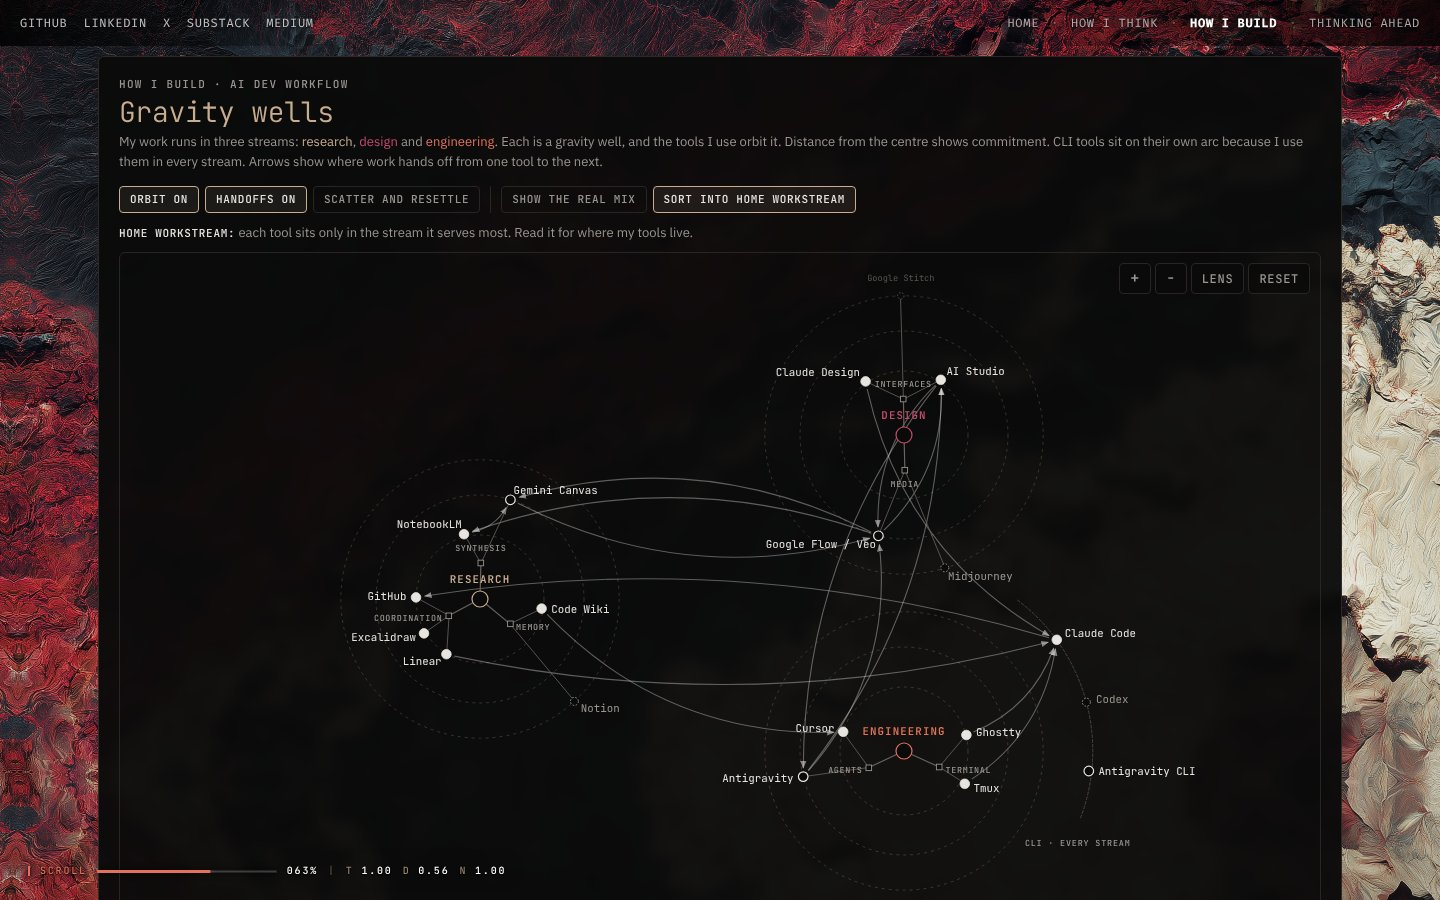
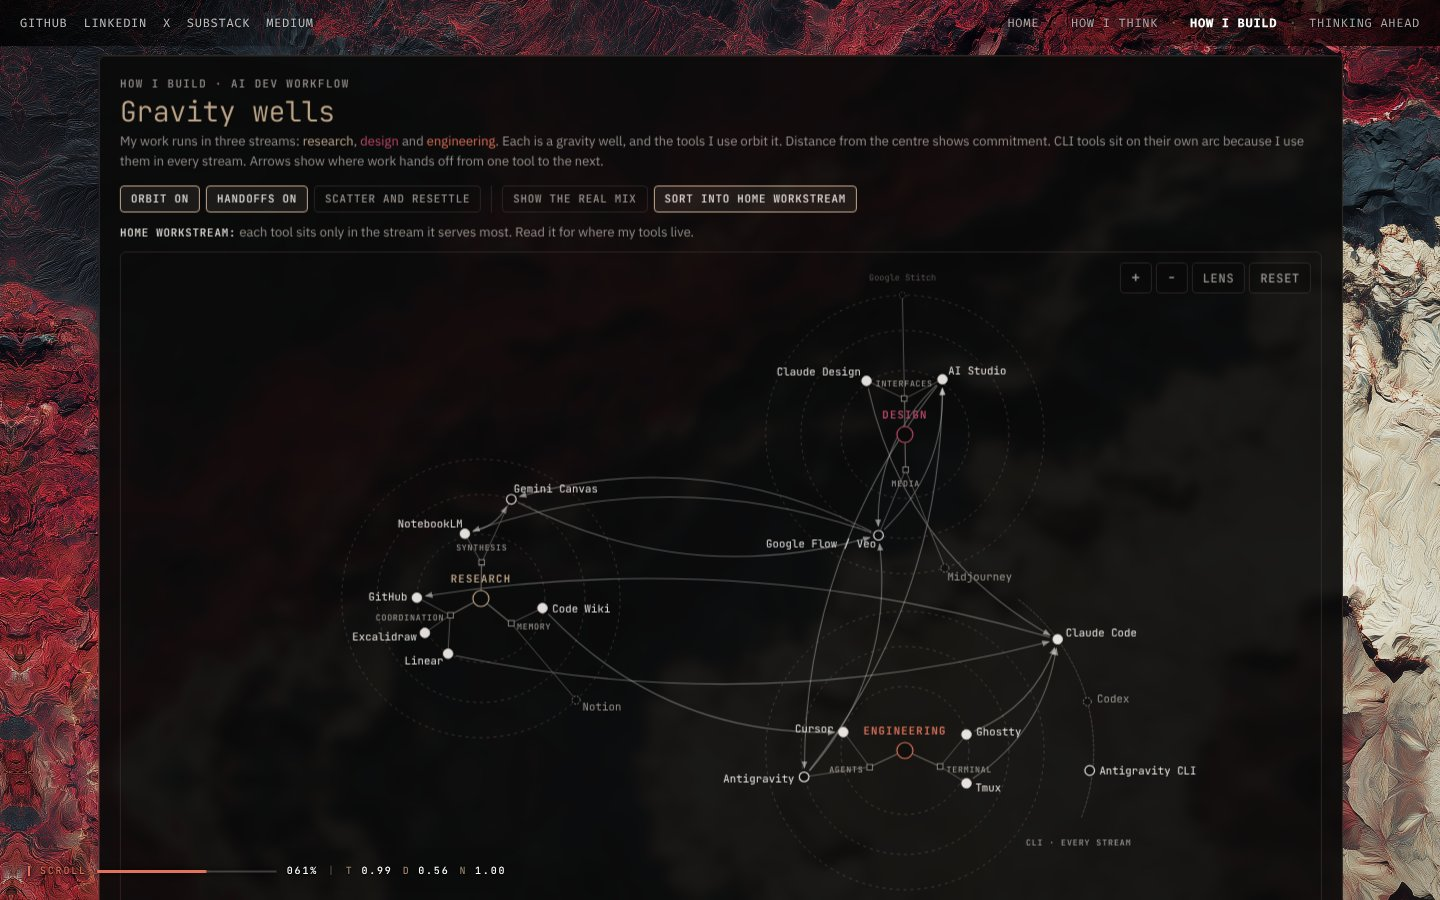
Gravity Wells: trim empty stage space, smaller Dropped row
The zoomed-out home view left empty space under the graph; the visible
stage is now 775 tall (viewH) instead of 890, which cuts that gap by
about half while the layout keeps its 890 height for zooming in. The
Dropped row goes from 13px to 12px.

Claude-Session: https://claude.ai/code/session_01HZ6Ui6Lb3BzD6S9jfSN3FF

diff --git a/app/components/sections/gravity-wells/engine.ts b/app/components/sections/gravity-wells/engine.ts
@@ -109,6 +109,8 @@ export function mountGravityWells(root: HTMLElement): GravityWellsHandle {
   function build(name: "wide" | "narrow"): Built {
     const L = LAYOUTS[name];
     const { W, H, ring: RING } = L;
+    // Height of the visible stage. Can be shorter than H (the layout's height) to trim empty space below the home view.
+    const VH = L.viewH ?? H;
     const WELLS: Record<string, any> = {};
     Object.entries(STREAMS).forEach(([k, s]) => {
       WELLS[k] = { ...s, key: k, x: L.pos[k][0], y: L.pos[k][1] };
@@ -118,7 +120,7 @@ export function mountGravityWells(root: HTMLElement): GravityWellsHandle {
 
     svg.selectAll("*").remove();
     svg
-      .attr("viewBox", `0 0 ${W} ${H}`)
+      .attr("viewBox", `0 0 ${W} ${VH}`)
       .style("max-width", W + "px")
       .classed("handoffs-off", !ui.handoffs)
       .classed("picking", false);
@@ -127,10 +129,10 @@ export function mountGravityWells(root: HTMLElement): GravityWellsHandle {
     function sizeText() {
       // A whole-pixel height keeps everything below the stage on the pixel grid.
       const cw = svgEl.clientWidth;
-      if (cw) svgEl.style.height = Math.round((cw * H) / W) + "px";
+      if (cw) svgEl.style.height = Math.round((cw * VH) / W) + "px";
       const scale = Math.min(
         L.maxScale,
-        Math.max(1, W / (svgEl.clientWidth || W), H / (svgEl.clientHeight || H)),
+        Math.max(1, W / (svgEl.clientWidth || W), VH / (svgEl.clientHeight || VH)),
       );
       Object.entries(TEXT).forEach(([k, px]) => {
         fs[k] = px * scale * (L.textScale || 1);
@@ -450,7 +452,7 @@ export function mountGravityWells(root: HTMLElement): GravityWellsHandle {
           y1: (z.bottom - s.top) * k + 4,
         });
       }
-      LENS.r = 70 * Math.max(1, W / (svgEl.clientWidth || W), H / (svgEl.clientHeight || H));
+      LENS.r = 70 * Math.max(1, W / (svgEl.clientWidth || W), VH / (svgEl.clientHeight || VH));
     }
     measure();
 
@@ -608,7 +610,7 @@ export function mountGravityWells(root: HTMLElement): GravityWellsHandle {
     const ease = (sel: any) => (reduceMotion ? sel : sel.transition().duration(420).ease(easeCubicOut));
     function zoomTo(d: any) {
       const k = Math.min(4, zt().k * 1.25);
-      ease(svg).call(zoom.transform, zoomIdentity.translate(W / 2, H / 2).scale(k).translate(-d.x, -d.y));
+      ease(svg).call(zoom.transform, zoomIdentity.translate(W / 2, VH / 2).scale(k).translate(-d.x, -d.y));
     }
     const zoomBy = (f: number) => ease(svg).call(zoom.scaleBy, f);
     const zoomReset = () => ease(svg).call(zoom.transform, home);

diff --git a/app/components/sections/gravity-wells/data.ts b/app/components/sections/gravity-wells/data.ts
@@ -26,6 +26,8 @@ export const TEXT = { tool: 13.5, hub: 10.5, well: 13.5 };
 export type Layout = {
   W: number;
   H: number;
+  /** Visible stage height, if shorter than H. */
+  viewH?: number;
   maxScale: number;
   pull: number;
   textScale?: number;
@@ -51,7 +53,8 @@ export type Layout = {
 export const LAYOUTS: Record<"wide" | "narrow", Layout> = {
   wide: {
     // Prototype A's triangle, with room above design and below engineering. The CLI arc sits where A's escape arc was.
-    W: 1200, H: 890, maxScale: 1.3, pull: 0.85,
+    // viewH trims the stage by half the empty space left under the zoomed-out home view.
+    W: 1200, H: 890, viewH: 775, maxScale: 1.3, pull: 0.85,
     ring: { active: 80, evaluating: 130, backlog: 174 }, hub: 44,
     pos: { research: [300, 450], design: [830, 245], engineering: [830, 640] },
     cli: { cx: 830, cy: 640, r: 236, from: -53, to: 21, slots: [-36, -15, 6], label: { a: 28, r: 246, anchor: "middle" } },

diff --git a/app/components/sections/gravity-wells/gravity-wells.css b/app/components/sections/gravity-wells/gravity-wells.css
@@ -97,7 +97,7 @@
 .gw-root .zoombar { position: absolute; top: 10px; right: 10px; display: flex; gap: 4px; z-index: 2; }
 .gw-root .zoombar button { padding: 7px 10px; font-size: 12px; background: rgba(10, 10, 10, .85); }
 .gw-root .zoombar button.sym { min-width: 32px; font-size: 15px; letter-spacing: 0; }
-.gw-root .dropped { display: flex; flex-wrap: wrap; gap: 6px 10px; align-items: baseline; margin: 0; padding: 12px 16px; border-top: 1px solid var(--border); font: 13px/20px var(--mono); color: var(--muted); }
+.gw-root .dropped { display: flex; flex-wrap: wrap; gap: 6px 10px; align-items: baseline; margin: 0; padding: 12px 16px; border-top: 1px solid var(--border); font: 12px/18px var(--mono); color: var(--muted); }
 .gw-root .dropped .tag { font-size: 11px; font-weight: 500; letter-spacing: .12em; text-transform: uppercase; color: var(--faint); margin-right: 4px; }
 .gw-root .dropped .sep { color: var(--faint); }
 .gw-root .tip {
